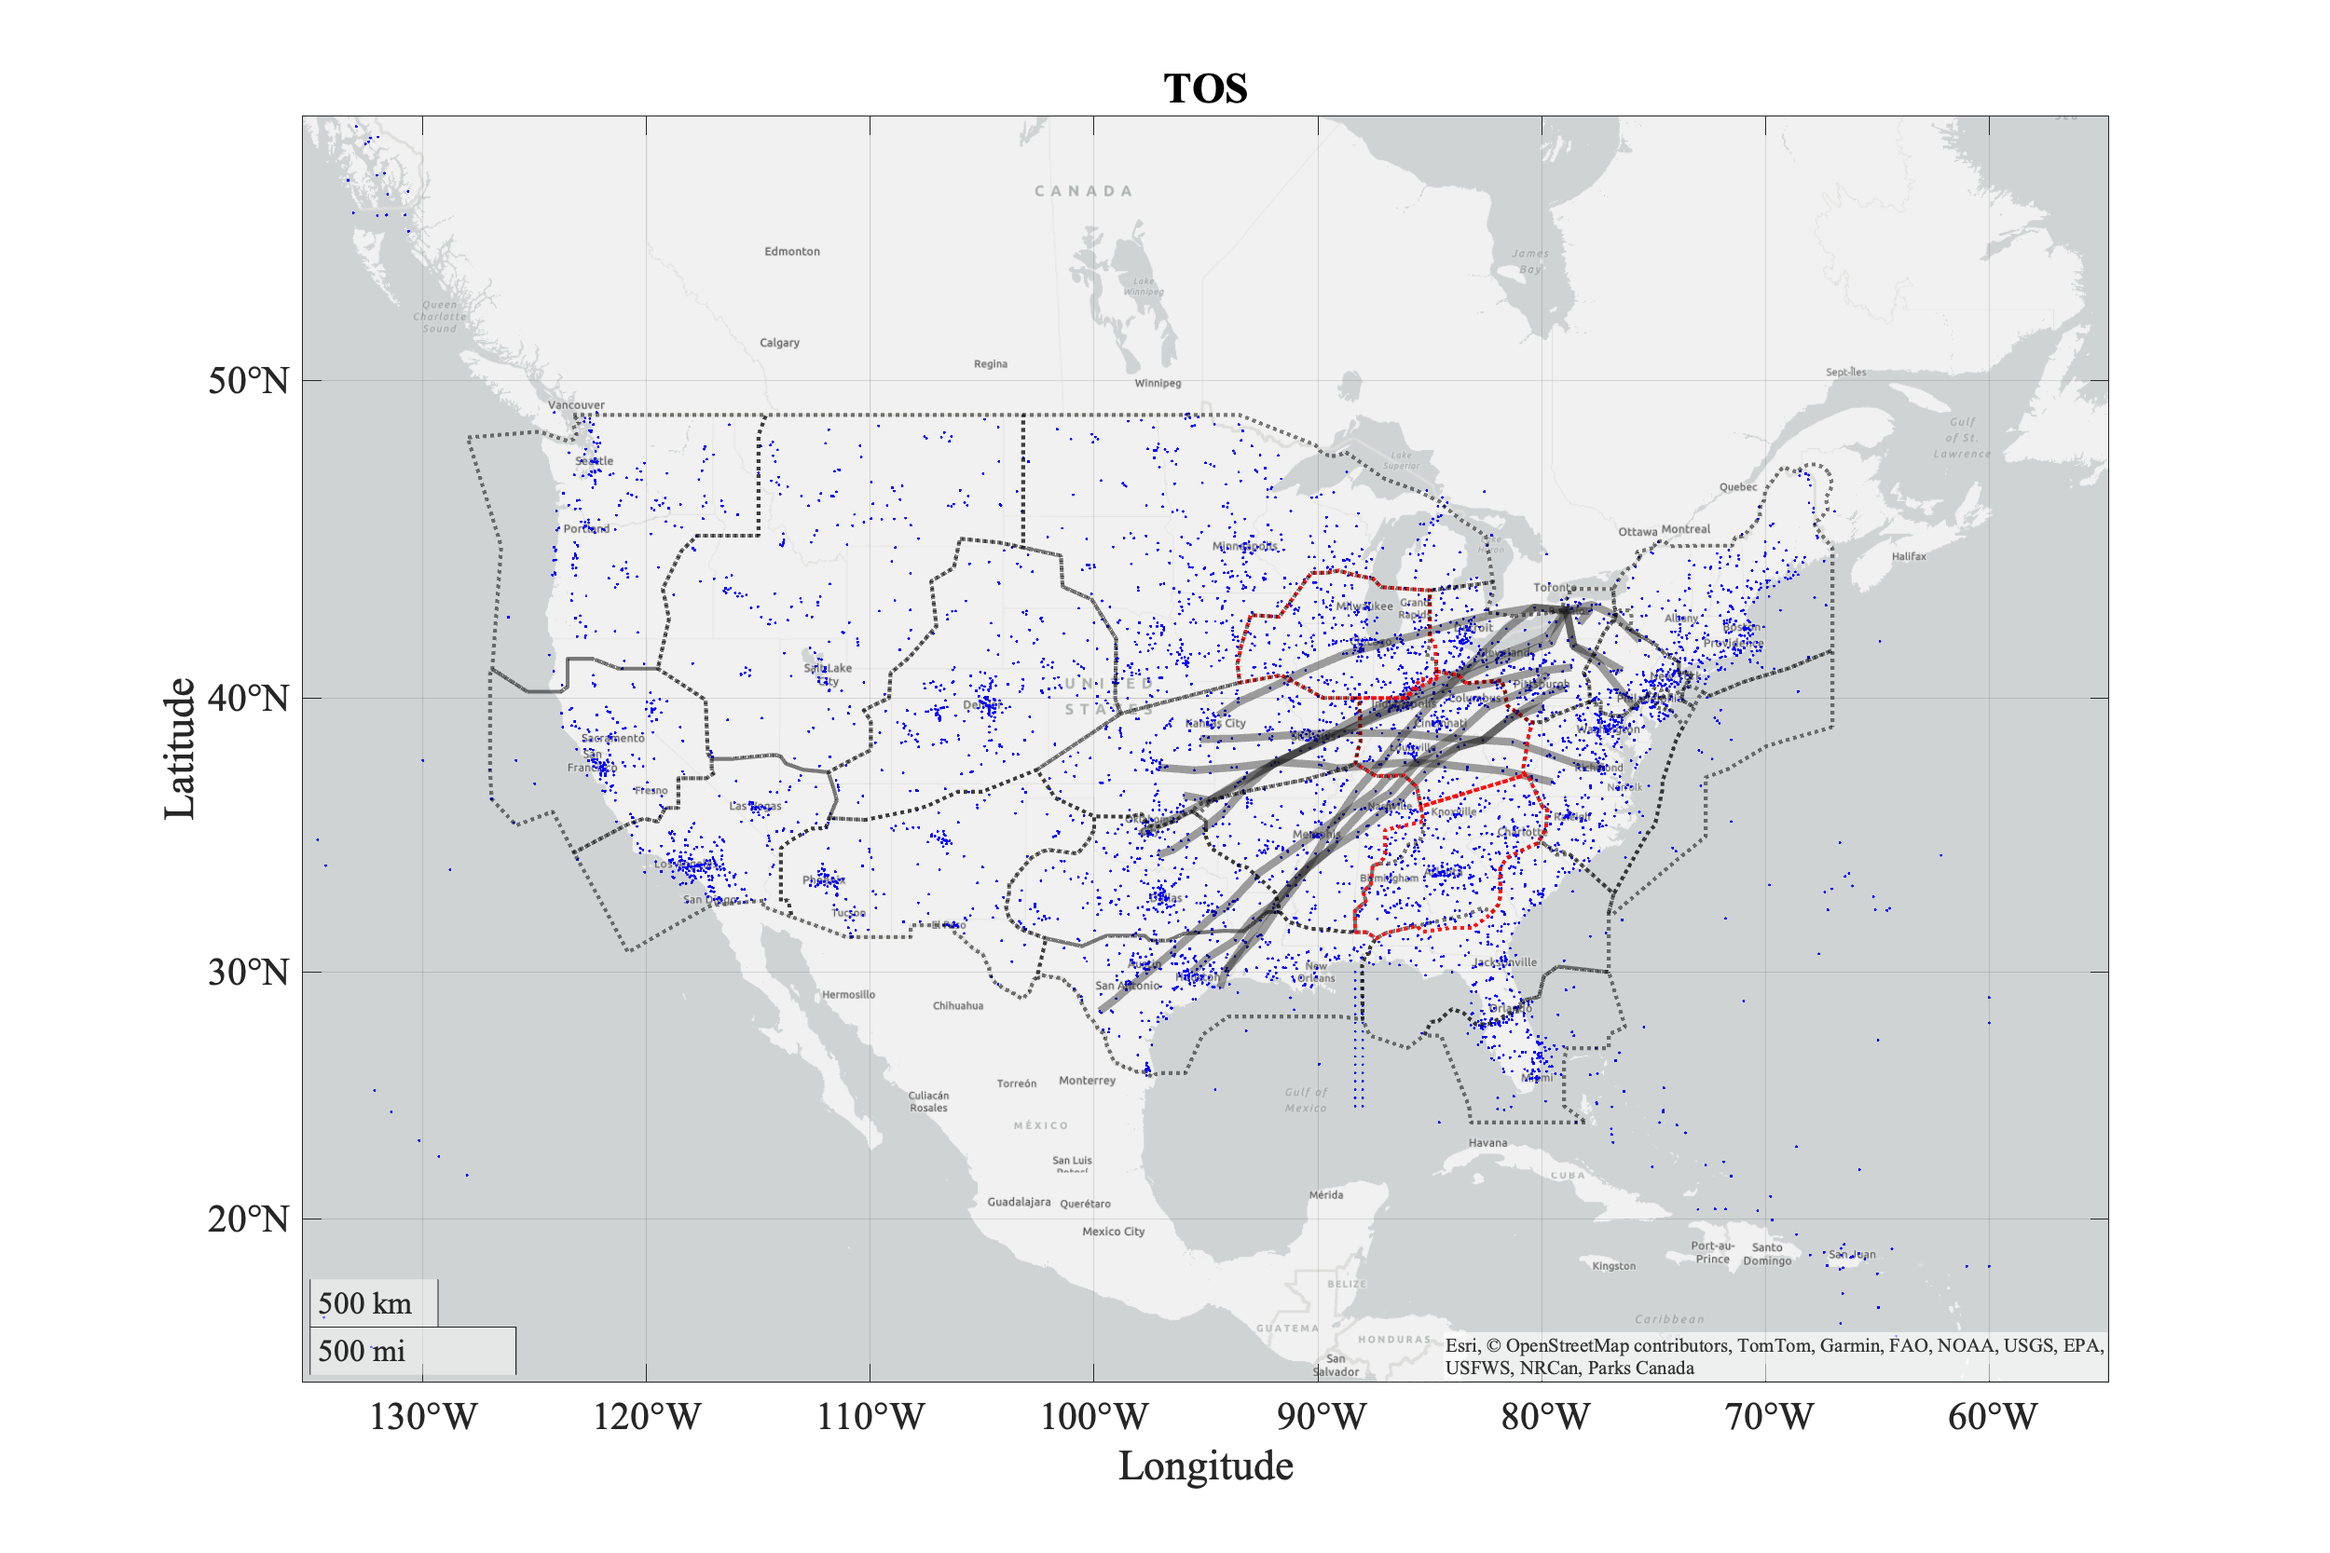
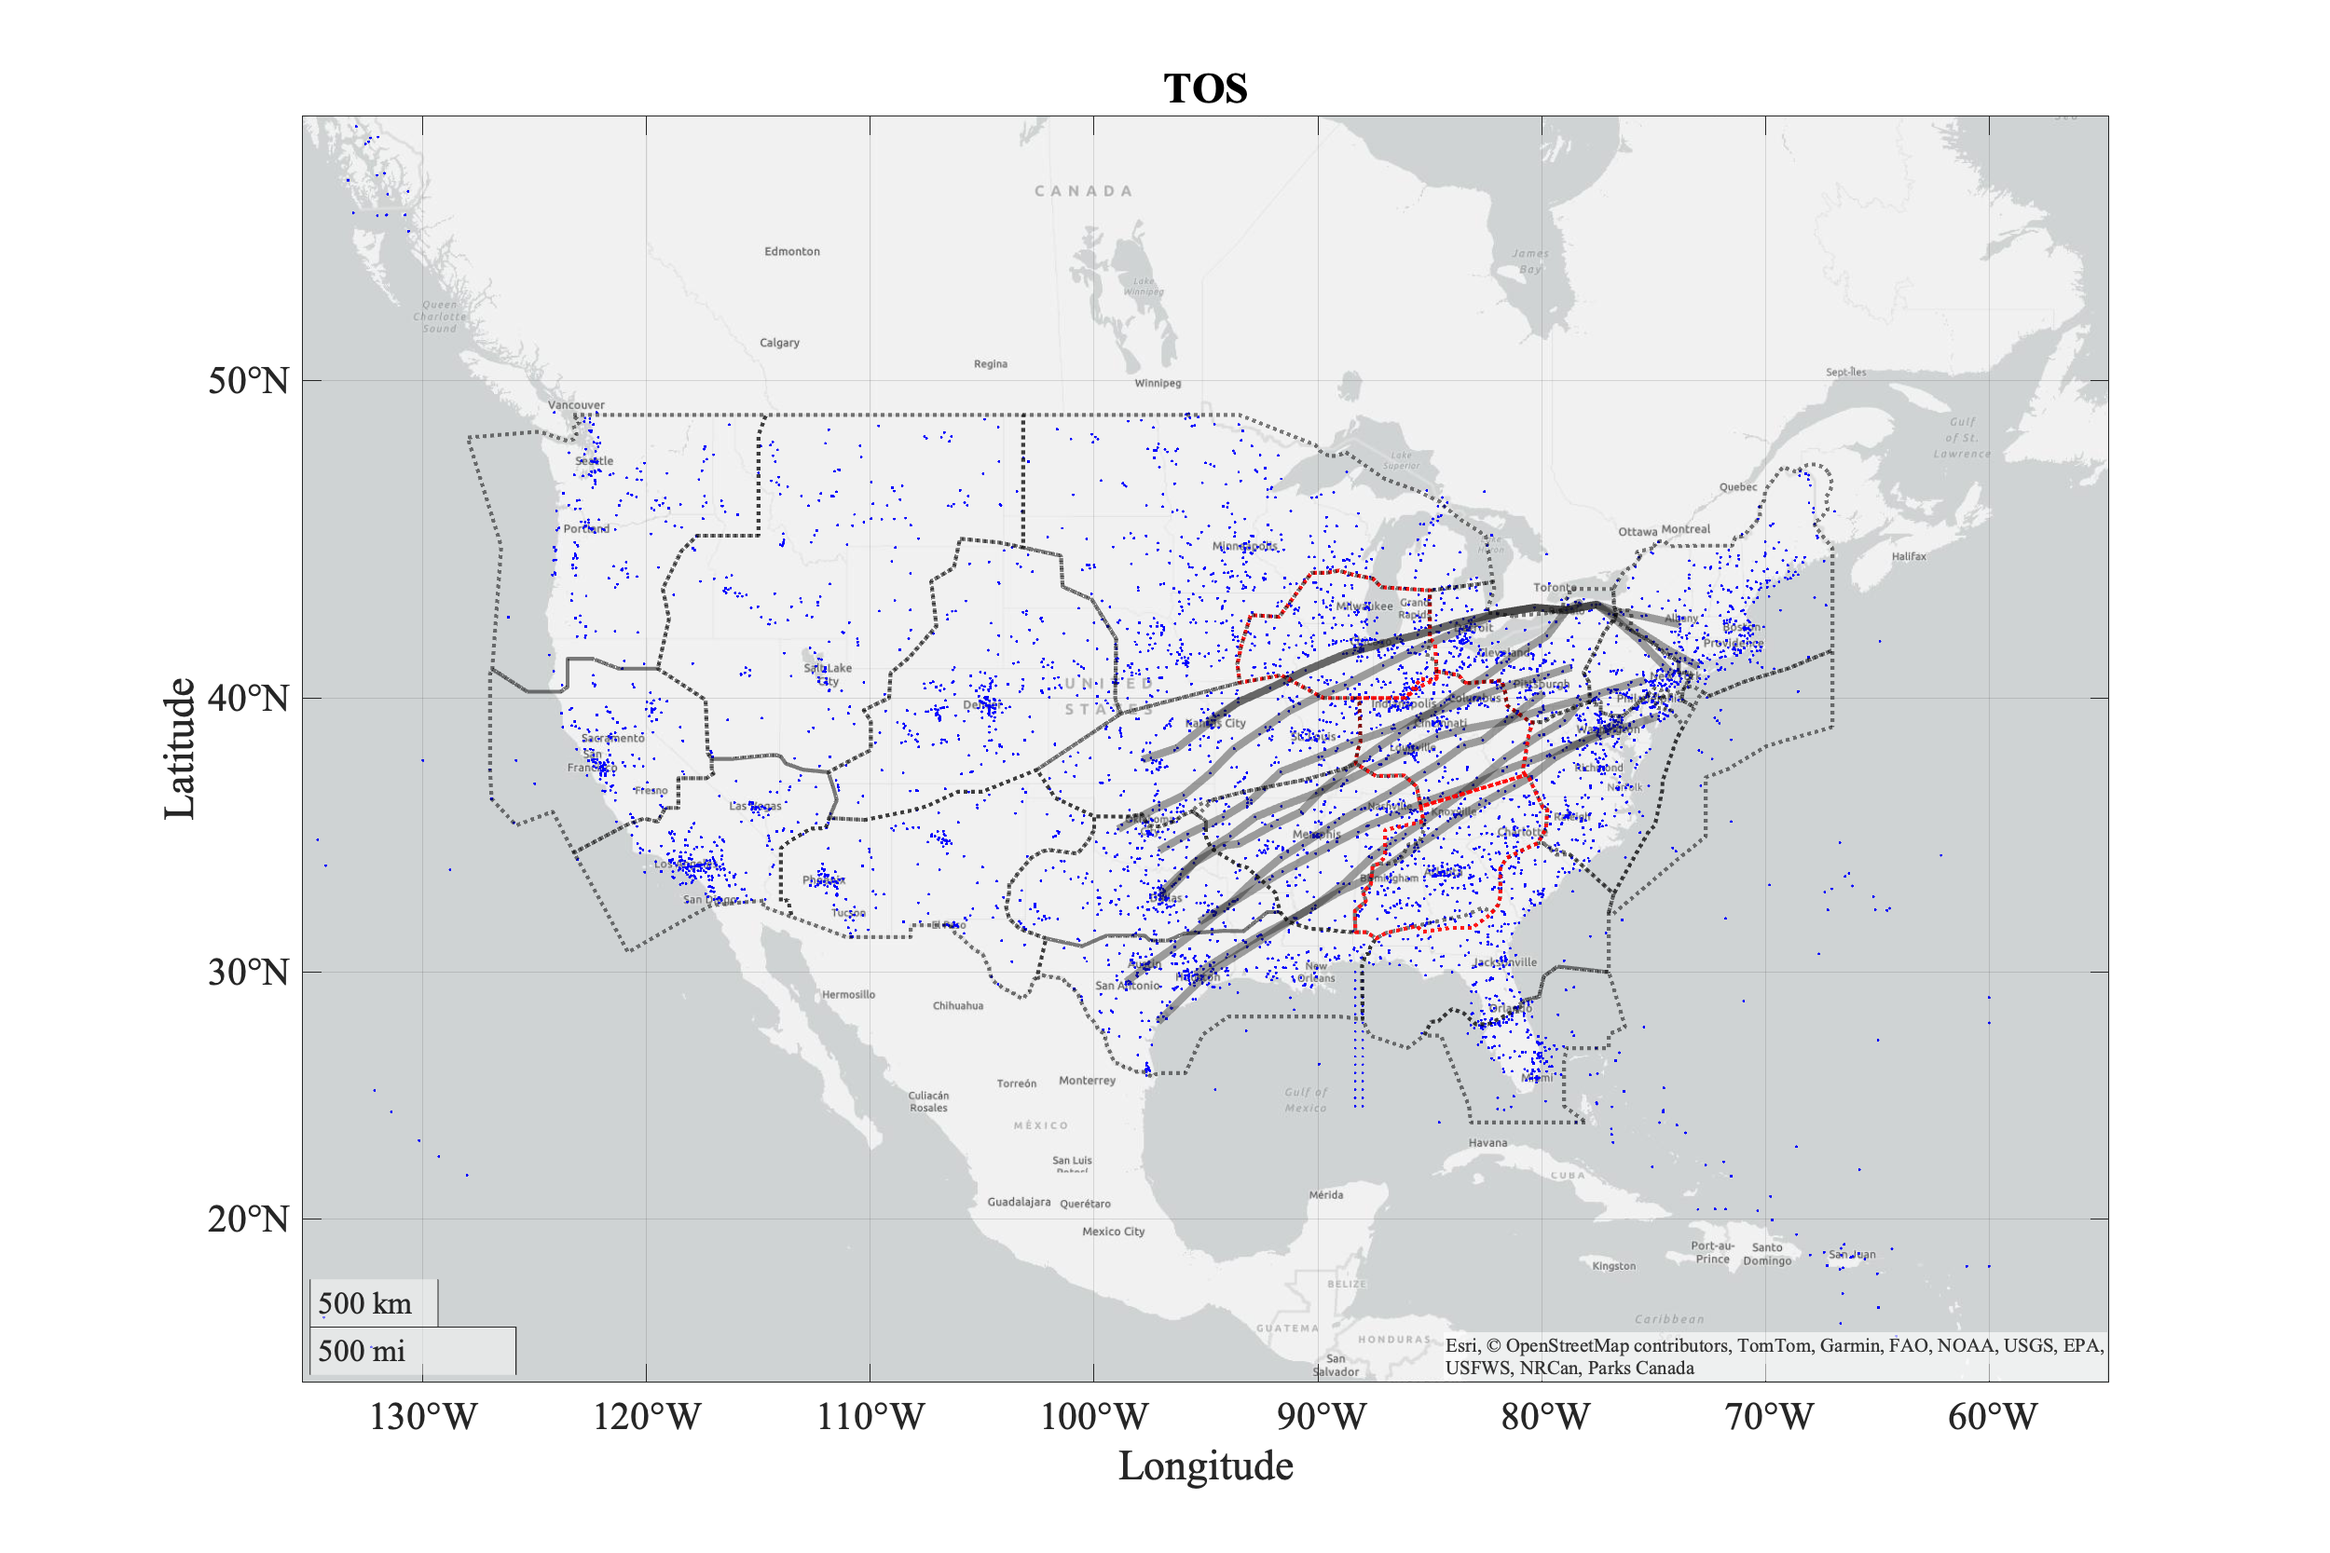
refactor + modified TACo test code

Changed region(s): [[0.468, 0.3743, 0.7176, 0.6551]]

diff --git a/MAT_devel/TACo.m b/MAT_devel/TACo.m
@@ -1,4 +1,4 @@
-function outcome = TACo(C, b, d0, gamma, epsilon)
+function [outcome, trade, profit] = TACo(C, b, d0, gamma, epsilon)
 % Inputs:
 %   C      : [n x m] cost matrix
 %   b      : [n x 1] private valuations
@@ -33,15 +33,19 @@ while ~isConverged
     selections(i) = j_star;                 % Update selection
     
     % --- Display formatted output ---
-    % fprintf('  %2d   |   %d    | ', step, i);
-    % fprintf('[%s] | ', strjoin(arrayfun(@(x) sprintf('%d', x), O(i,:), 'UniformOutput', false), ' '));
-    % fprintf('[%s] | ', strjoin(arrayfun(@(x) sprintf('%d', x), P(i,:), 'UniformOutput', false), ' '));
-    % fprintf('[%s] | ', strjoin(arrayfun(@(x) sprintf('%5.1f', x), J, 'UniformOutput', false), ' '));
-    % fprintf('[%s]\n', strjoin(arrayfun(@(x) sprintf('%d', x), selections(~isnan(selections)), 'UniformOutput', false), ' '));
-    
+    fprintf('  %2d   |   %d    | ', step, i);
+    fprintf('[%s] | ', strjoin(arrayfun(@(x) sprintf('%d', x), O(i,:), 'UniformOutput', false), ' '));
+    fprintf('[%s] | ', strjoin(arrayfun(@(x) sprintf('%d', x), P(i,:), 'UniformOutput', false), ' '));
+    fprintf('[%s] | ', strjoin(arrayfun(@(x) sprintf('%5.1f', x), J, 'UniformOutput', false), ' '));
+    fprintf('[%s]\n', strjoin(arrayfun(@(x) sprintf('%d', x), selections(~isnan(selections)), 'UniformOutput', false), ' '));
+
     % --- Cycle detection ---
     key = [reshape(O - P, 1, []), i];        % Flattened key
     found = any(cellfun(@(x) isequal(x, key), recordedStates));
+
+    if all(selections==selections(1))
+        break;
+    end
     
     if found
         d = gamma * d;                      % Reduce trading unit
@@ -68,5 +72,7 @@ end
 
 % Return most frequently selected outcome
 outcome = mode(selections);
+trade = O-P;
+profit = diag(b)*(O-P) - C;
 
 end

diff --git a/selectedPlot.m b/selectedPlot.m
@@ -1,7 +1,7 @@
 selected = load("[0]selected.mat");
 tos = load("TOS.mat");
 
-selected = selected.selected;
+selected = test2;
 tos = tos.TOS_set;
 
 G = load("US_waypoint_graph.mat");
@@ -15,7 +15,7 @@ geoplot(node_coords(:,1), node_coords(:,2), 'b.', 'MarkerSize', 3); % Graph node
 hold on
 
 % Plot multiple paths with different colors
-selectIdx = 2;
+selectIdx = 3;
 selection = selected{selectIdx};
 for k = 1:10
     localSelection = selection(k);

diff --git a/NegoMain.m b/NegoMain.m
@@ -1,0 +1,16 @@
+negoTable = load("negoTable.mat"); 
+
+C = cell2mat(negoTable.scores);
+% C = [C2,cell2mat(negoTable.scores)];
+
+n = size(C,1);
+b = ones(n,1);
+d0 = 1;
+gamma = 0.9;
+epsilon = 10;
+
+[selection, trade, profit] = TACo(C, b, d0, gamma, epsilon);
+selection
+trade = trade(:,selection)
+postProfit = profit(:,selection)
+preProfit = -C(:,selection)

diff --git a/MAT_devel/TACO_complx_test.m b/MAT_devel/TACO_complx_test.m
@@ -1,5 +1,5 @@
 nSet = [2, 5, 10, 20, 30, 40, 50];
-mSet = [10, 50, 100, 500, 1000, 2000, 3000];
+mSet = [10, 50, 100, 500];
 gamma = 0.9;
 epsilon = 1e-3;
 
